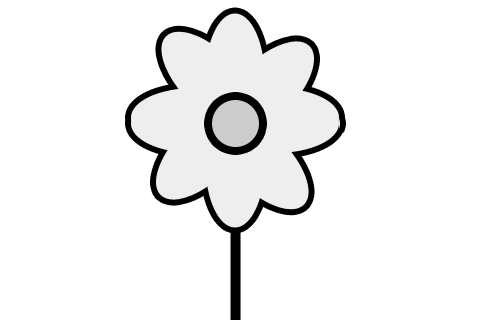
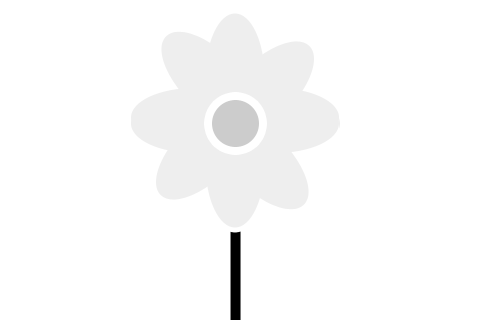
Colors of flowers follow user choices

Changed region(s): [[0.25, 0.0, 0.7188, 0.75], [0.4062, 0.2812, 0.5625, 0.5]]

diff --git a/Classes/ScrollDiaryScreenController.m b/Classes/ScrollDiaryScreenController.m
@@ -47,6 +47,7 @@ static NSMutableArray* dates = nil;
 	NSMutableArray *allref = [d reflections];
 	
 	NSMutableArray *returnValue = [[NSMutableArray alloc] init];
+	[returnValue retain];
 	
 	for(Reflection *r in allref){
 		if([r isKindOfClass:[ColorReflection class]])
@@ -88,7 +89,6 @@ static NSMutableArray* dates = nil;
 		if(currentPage != page){
 			currentPage = page;
 			[dateTableView reloadData];
-			
 		}
 		
 		[self loadScrollViewWithPage:page-1];
@@ -128,39 +128,52 @@ static NSMutableArray* dates = nil;
 	for(int i = 0; i < kNumberOfPages; i++){
 		
 		ScrollViewPageController *s = [[ScrollViewPageController alloc] init];
+		UIView *v = [[UIView alloc] init];
 		
-		//right now image views are just repeat of "breathe".  
-		
-		//TODO:
-		
-		
-		CGFloat red = (arc4random() % 32767) / 32767.0f;
-		CGFloat green = (arc4random() % 32767) / 32767.0f;
-		CGFloat blue = (arc4random() % 32767) / 32767.0f;
-		
+		// Get a Random Color for a Day
+		NSString *dateKey = [dates objectAtIndex:i];
+		DayTableObject *d = [tableManager.dayToTableRepDict objectForKey:dateKey];
+		NSMutableArray *allref = [d reflections];
+		NSMutableArray *colors = [[NSMutableArray alloc] init];
+		for(Reflection *r in allref){
+			if([r isKindOfClass:[ColorReflection class]])
+				[colors addObject:r];
+		}
+		CGFloat red = 1.0f;
+		CGFloat green = 1.0f;
+		CGFloat blue = 1.0f;
+		if ([colors count] > 0) {
+			ColorReflection* cr = (ColorReflection*) [colors objectAtIndex:(arc4random() % [colors count])];
+			red = [[cr colorRed] floatValue];
+			green = [[cr colorGreen] floatValue];
+			blue = [[cr colorGreen] floatValue];
+		}
+//		CGFloat red = (arc4random() % 32767) / 32767.0f;
+//		CGFloat green = (arc4random() % 32767) / 32767.0f;
+//		CGFloat blue = (arc4random() % 32767) / 32767.0f;
 		UIColor *randomColor = [UIColor colorWithRed:red green:green blue:blue alpha:1.0];
 		UIImage *img = [UIImage imageNamed:@"DiaryFlower.png" withColor:randomColor];
-		
 		
 		//CHANGE THIS TO REPRESENT THE CORRECT FLOWER
 		s.imageView = [[UIImageView alloc] initWithImage:img];
 		s.imageView.frame = CGRectMake(i*scrollView.frame.size.width, 0, scrollView.frame.size.width, scrollView.frame.size.height);
+		[v addSubview:s.imageView];
 		
 		// Add Left Arrow
-		UIImageView* leftArrow = [[UIImageView alloc] initWithImage:[UIImage imageNamed:@"ArrowLeft.png"]];
-		leftArrow.frame = CGRectMake(10, 80, 25, 25);
+		if (i != 0) {
+			UIImageView* leftArrow = [[UIImageView alloc] initWithImage:[UIImage imageNamed:@"ArrowLeft.png"]];
+			leftArrow.frame = CGRectMake(i*scrollView.frame.size.width+10, 80, 25, 25);
+			[v addSubview:leftArrow];
+		}
 		
 		// Add Right Arrow
-		UIImageView* rightArrow = [[UIImageView alloc] initWithImage:[UIImage imageNamed:@"ArrowRight.png"]];
-		rightArrow.frame = CGRectMake(scrollView.frame.size.width-35, 80, 25, 25);
-		
-		
-		UIView *v = [[UIView alloc] init];
-		[v addSubview:s.imageView];
-		[v addSubview:leftArrow];
-		[v addSubview:rightArrow];
+		if (i < kNumberOfPages-1 ) {
+			UIImageView* rightArrow = [[UIImageView alloc] initWithImage:[UIImage imageNamed:@"ArrowRight.png"]];
+			rightArrow.frame = CGRectMake((i+1)*scrollView.frame.size.width-35, 80, 25, 25);
+			[v addSubview:rightArrow];
+		}
+			
 		s.view = v;
-		
 		[viewControllers addObject:s];
 		
 	}
